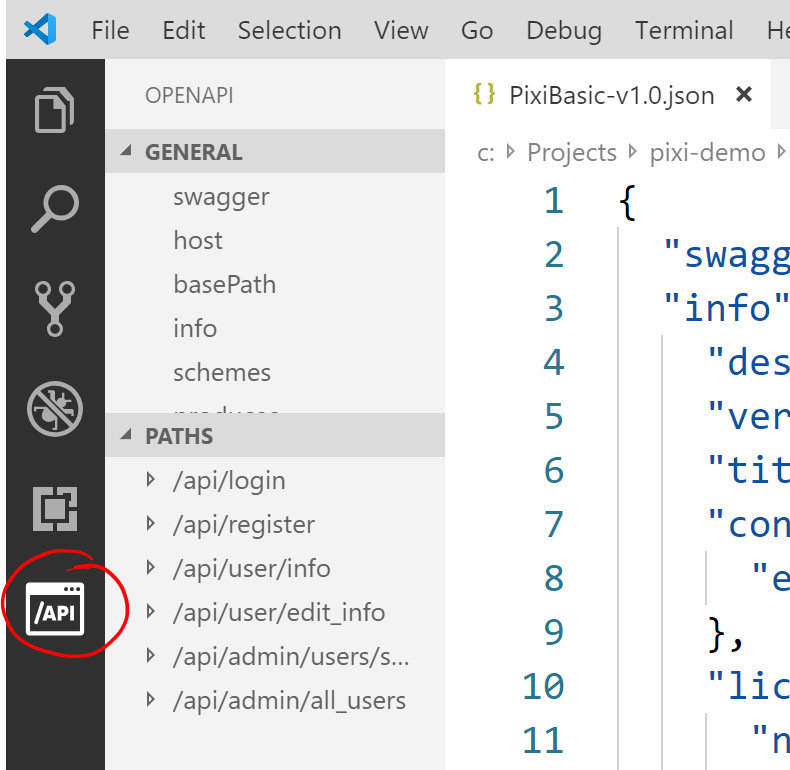
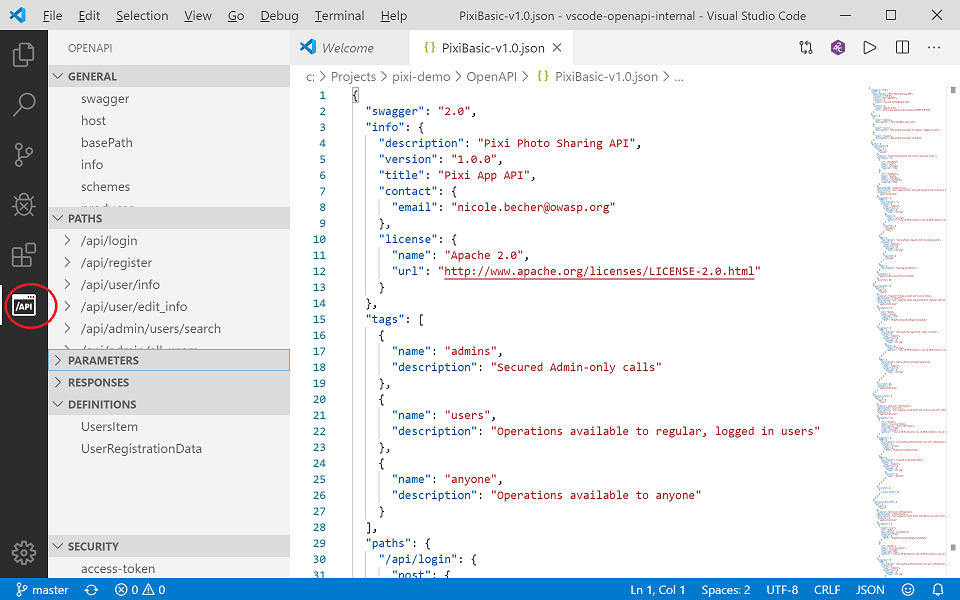
Update images for 2.x release

diff --git a/README.md b/README.md
@@ -24,7 +24,7 @@ Both OAS v2 and v3 are supported.
 
 After installing the plugin, open any JSON or YAML file that contains an OpenAPI definition in VS Code. The plugin automatically detects that this is an OpenAPI file, and the OpenAPI button <img src="https://raw.githubusercontent.com/42Crunch/vscode-openapi/master/images/OpenAPI%20button.PNG" width=20 height=19> is shown in the left-hand panel.
 
-<img src="https://github.com/42Crunch/vscode-openapi/blob/master/images/OpenAPI%20Explorer.PNG?raw=true" width=400 height=389>
+<img src="images/OpenAPI%20Explorer.PNG?raw=true">
 
 ## Use the extension while editing your API
 
